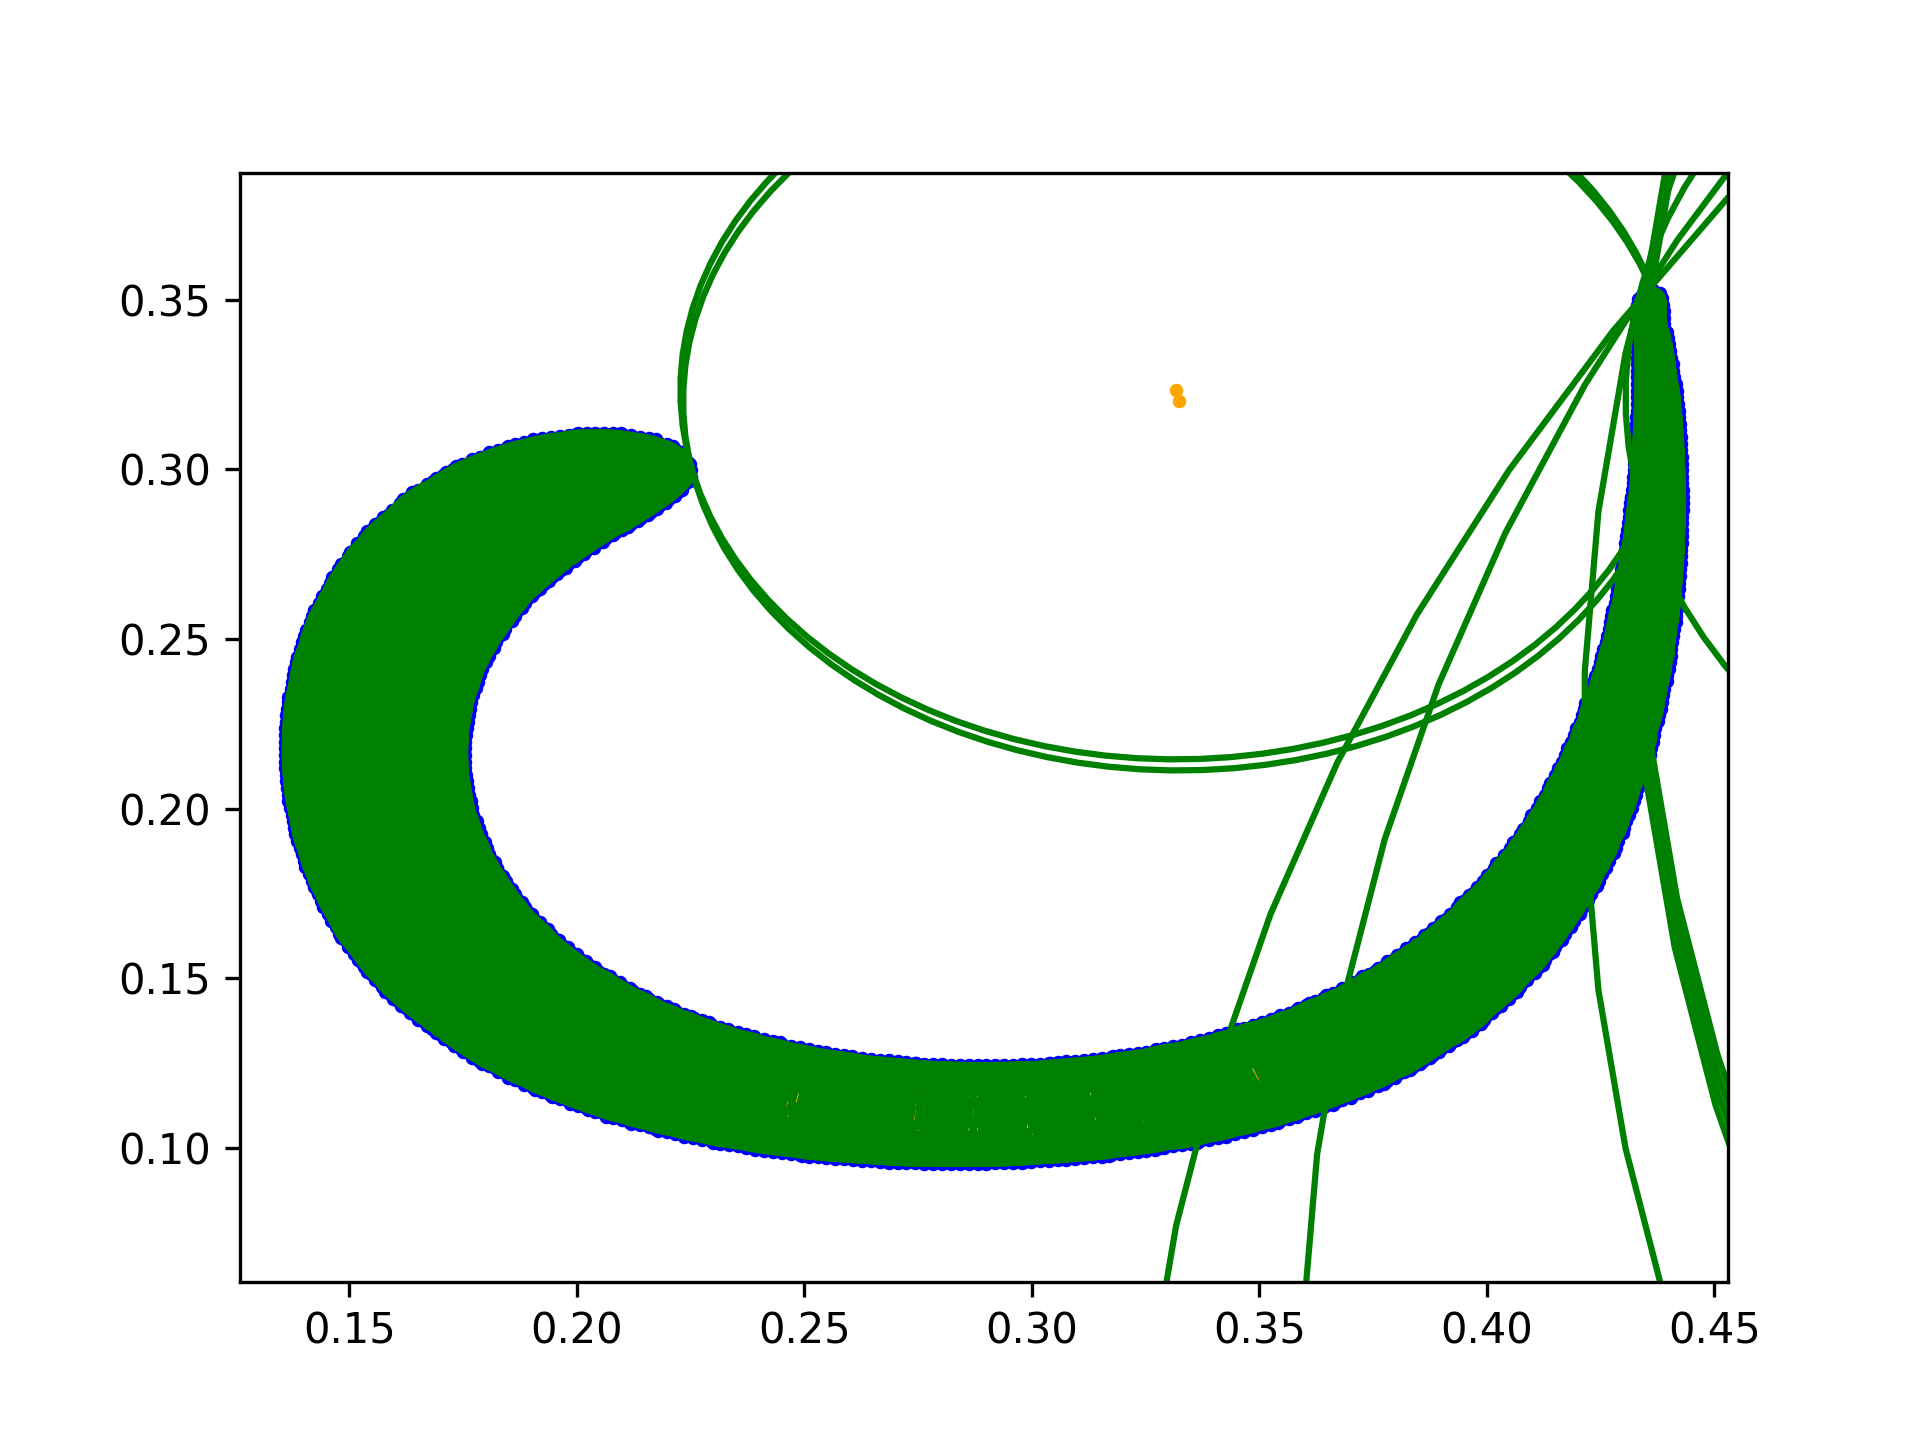
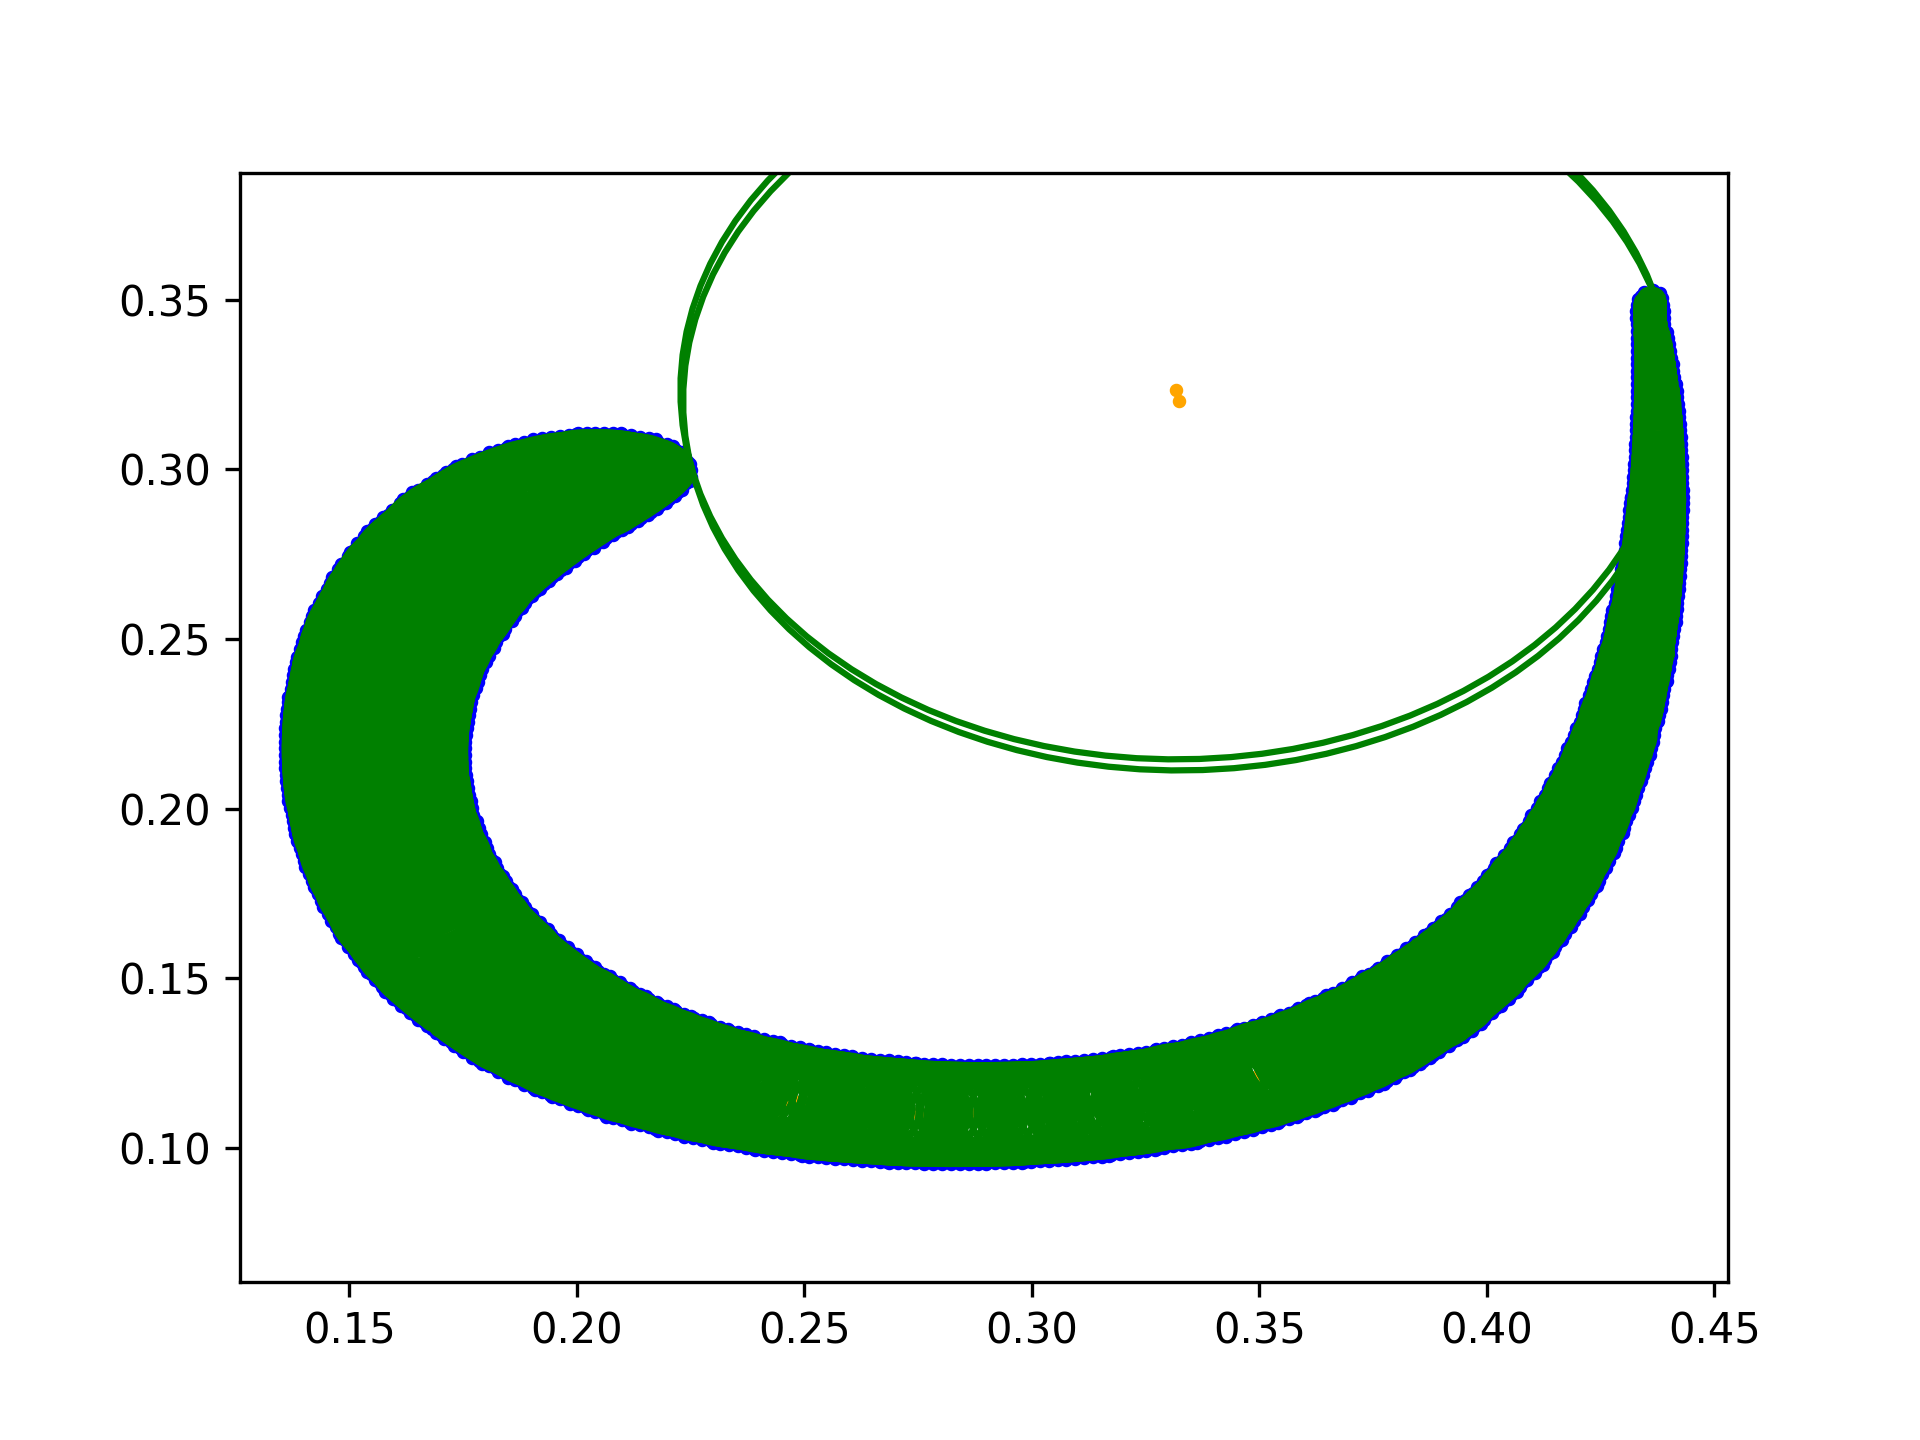
modified:   DataStructures.py 	modified:   Output.png 	modified:   OutputNoRad.png 	modified:   SkeleNet.py 	modified:   SkeleSave.dat 	modified:   Skeletize.py 	modified:   __pycache__/DataStructures.cpython-36.pyc 	modified:   __pycache__/SkeleNet.cpython-36.pyc 	modified:   __pycache__/Skeletize.

diff --git a/DataStructures.py b/DataStructures.py
@@ -438,7 +438,8 @@ class kdTree:
             tdata = []
             tdata.append(data[0])
             tdata.append(data[1])
-            tdata.append(data[2])
+            tempthresh = data[2] * 10
+            tdata.append(tempthresh)
             tdata.append(data[3])
             data = tdata
         # if data[3] == 0:
@@ -487,12 +488,12 @@ class kdTree:
                     while j < self.points[i].dimensions:
                         tvec.append(self.points[i].getAxis(j) - data[0][j])
                         j += 1
-                    tvec = normalize([tvec])
-                    dev = getDeviation(tvec[0],data[1])
+                    dev = getDeviation(tvec,data[1])
                     if dev > low:
                         low = dev
                         ind = i
                 i += 1
+            #print(low)
             retpts.append(self.points[ind])
             retdev.append(low)
             # print(retpts,retdev,data[3])
@@ -535,70 +536,74 @@ class kdTree:
                 #TEST3
                 #print()
                 #print('point',data[0],data[3])
-                diffdev = abs(retdevl[0]-retdevr[0]) 
+                diffdev = abs(retdevl[0]-retdevr[0])
+                #if data[0][0] < 0.18:
+                #    if dl < data[2]/10 or dr < data[2]/10:
+                #        print()
+                #        print('Point:',data[0],data[3],'L-R')
+                #        print('distance',dl,dr)
+                #        print('dev',retdevl[0],retdevr[0])
+                #        print('points',retptsl[0].getPoint(),retptsr[0].getPoint())
+                #        print()
                 if diffdev < data[2]:
-                    #print('within')
-                    if dl > data[2] and dr > data[2]:
-                        #print('bigger')
+                    if dl > data[2]/10 and dr > data[2]/10: 
                         if dl > dr:
-                            #print('went r')
                             retpts = retptsr
                             retdev = retdevr
                         else:
-                            #print('went l')
                             retpts = retptsl
                             retdev = retdevl
                     else:
-                        if dl > dr:
-                            #print('went l')
+                        #Here we have the potential of having a winner/Final Point. So we want to be more specific
+                        if dl < data[2]/10 and dr < data[2]/ 10:
+                            #if both are small, then we choose the more on one 
+                            if retdevr[0] > retdevl[0]:
+                                retpts = retptsr
+                                retdev = retdevr
+                            else:
+                                retpts = retptsl
+                                retdev = retdevl
+                        elif dl < data[2]/10 and retdevl[0] > 0.9:
                             retpts = retptsl
                             retdev = retdevl
-                        else:
-                            #print('went r')
+                        elif dr < data[2]/10 and retdevr[0] > 0.9:
                             retpts = retptsr
                             retdev = retdevr
+                        else:
+                            if dl > dr:
+                                retpts = retptsl
+                                retdev = retdevl
+                            else:
+                                retpts = retptsr
+                                retdev = retdevr
                 else:
-                    #print('deviated',abs(retdevl[0]-retdevr[0]))
-                    #All results here will be within 0.05 dev of eachother. This is where we consider which ones are good enough to thresh and which ones arent
-                    if retdevr > retdevl and dr > data[2]:
-                        #print('r pass')
-                        retpts = retptsr
-                        retdev = retdevr
-                    elif retdevr < retdevl and dl > data[2]:
-                        #print('l pass')
+                    #All results here will be within 0.05 dev of eachother. This is where we consider which ones are good enough to thresh and which ones arent     
+                    if dl < data[2]/10 and dr < data[2]/ 10:
+                        #both small and not close to eachother, so take the most on
+                        print('b')
+                        if retdevr[0] > retdevl[0]:
+                            retpts = retptsr
+                            retdev = retdevr
+                        else:
+                            retpts = retptsl
+                            retdev = retdevl
+                    elif dl < data[2]/10 and retdevl[0] > 0.9:
+                        print('l')
                         retpts = retptsl
                         retdev = retdevl
+                    elif dr < data[2]/10 and retdevr[0] > 0.9:
+                        print('r')
+                        retpts = retptsr
+                        retdev = retdevr
                     else:
-                        if dr > data[2]:
-                            if diffdev > data[2] * 10:
-                                print('gol1')
-                                retpts = retptsl
-                                retdev = retdevl
-                            else:
-                                print('gor1')
-                                retpts = retptsr
-                                retdev = retdevr
-                        elif dl > data[2]:
-                            if diffdev > data[2] * 10:
-                                print('gor2')
-                                retpts = retptsr
-                                retdev = retdevr 
-                            else:
-                                print('gol2')
-                                retpts = retptsl
-                                retdev = retdevl
+                        if retdevr[0] > retdevl[0]:
+                            retpts = retptsr
+                            retdev = retdevr
                         else:
-                            print('both small')
-                            if retdevr > retdevl:
-                                print('gor3')
-                                retpts = retptsr
-                                retdev = retdevr
-                            else:
-                                print('gol3')
-                                retpts = retptsl
-                                retdev = retdevl
-
-
+                            retpts = retptsl
+                            retdev = retdevl
+                    
+                
                 #print()                
                     
                 #TEST2

diff --git a/Skeletize.py b/Skeletize.py
@@ -150,18 +150,26 @@ def randPN(points : list,norms : list ):
 
 
 def getDeviation(list1 : list, list2 : list):
-    #is inputted two *NORMALIZED VECTORS*, and returns the unbaised difference in all the comparable values
+    #Input 2 directional vectors
     #We score the deviation from 0 -> 1
     #0 = Completely opposite
     #1 = Completely same
-    dim = len(list1)
     i = 0
-    dx = 0.0
-    while i < dim:
-        dx += abs(list1[i] - list2[i])
-        i += 1
-    if dim == 2:
-        return (-(dx/4) + 1)
+    if len(list1) == 2:
+        top = list1[0]*list2[0] + list1[1]*list2[1] 
+        bot = ((list1[0]*list1[0] + list1[1]*list1[1]) ** 0.5) * ((list2[0]*list2[0] + list2[1]*list2[1]) ** 0.5)
     else:
-        return (-(dx/6) + 1)
-        
+        top = list1[0]*list2[0] + list1[1]*list2[1] + list1[2]*list2[2]
+        bot = ((list1[0]*list1[0] + list1[1]*list1[1] + list1[2]*list1[2]) ** 0.5) * ((list2[0]*list2[0] + list2[1]*list2[1] + list2[2]*list2[2]) ** 0.5)
+    ins = top/bot
+    if ins < -1:
+        ins = -1
+    elif ins > 1:
+        ins = 1
+    angle = np.arccos(ins)
+    angle = abs(angle) / np.pi
+    score = 1 - angle 
+    return score
+
+
+

diff --git a/SkeleNet.py b/SkeleNet.py
@@ -201,14 +201,14 @@ def skeletize(points : list,norms : list,threshDistance : float,tree : kdTree,an
             distc = getDistance(point,centerp[leng])
             ###NEW LOGIC
             if i == 30:
-                print()
-                print(cpuid,'stuck')
-                print('point',point)
-                print('cross point',crossp.getPoint())
-                print('rads',tempr[i-5:i])
-                print('centers',centerp[i-5:i])
-                print('tests',testp[i-5:i])
-                print()
+                #print()
+                #print(cpuid,'stuck')
+                #print('point',point)
+                #print('cross point',crossp.getPoint())
+                #print('rads',tempr[i-5:i])
+                #print('centers',centerp[i-5:i])
+                #print('tests',testp[i-5:i])
+                #print()
                 case = True
             #First will always determine if inside shape..
             if distc < crossdis or (dist < crossdis and crossdis < threshDistance):
